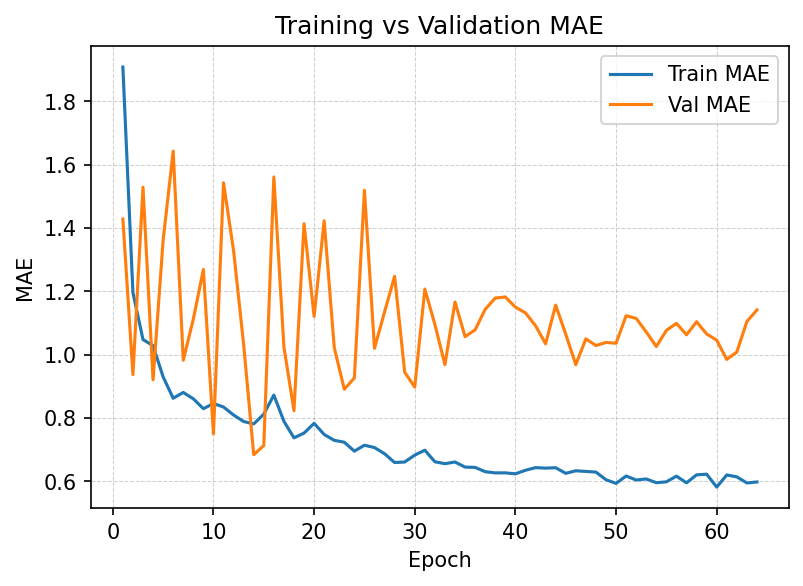
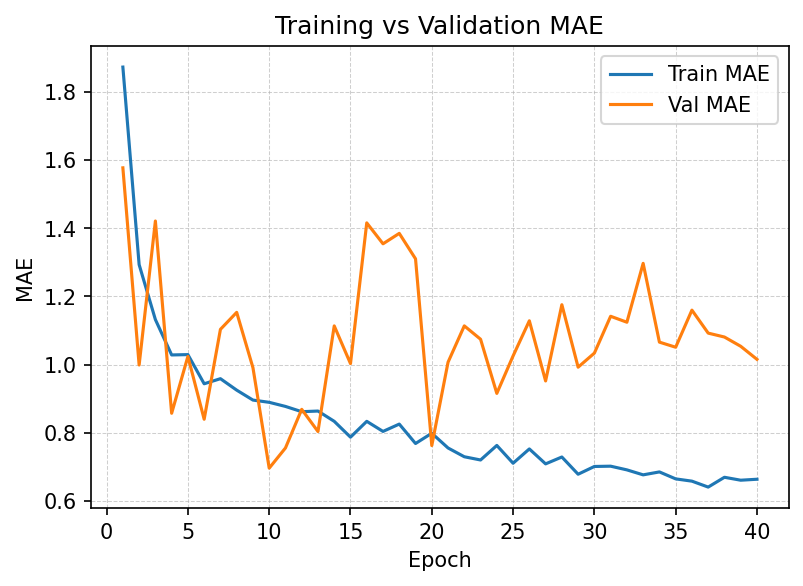
preprceoss now randomly crops

diff --git a/models/model_v4.2/view_augmented.py b/models/model_v4.2/view_augmented.py
@@ -1,0 +1,163 @@
+"""Web-based viewer for inspecting augmented RGB/Depth pairs.
+
+Run:
+    python view_augmented.py --rgb-dir <path> --depth-dir <path> --csv <path>
+Requires gradio>=4.
+"""
+
+import argparse
+import os
+import random
+from dataclasses import dataclass
+from typing import Dict, List, Optional, Tuple
+
+import gradio as gr
+import numpy as np
+import pandas as pd
+from PIL import Image, ImageOps
+
+try:
+    from preprocess import PreprocessConfig
+except Exception:  # pragma: no cover
+    PreprocessConfig = None
+
+
+@dataclass
+class ViewerPaths:
+    rgb_dir: str
+    depth_dir: str
+    csv_path: str
+
+
+class AugmentedDataset:
+    """Helper class that keeps metadata/indexing fast for the viewer."""
+
+    def __init__(self, paths: ViewerPaths) -> None:
+        self.paths = paths
+        self.df = self._load_dataframe(paths.csv_path)
+        self.ids: List[int] = self.df['id'].tolist()
+        self.rows: Dict[int, Dict] = {
+            int(row['id']): row for row in self.df.to_dict(orient='records')
+        }
+        if not self.ids:
+            raise ValueError('No entries found in augmented CSV')
+
+    @staticmethod
+    def _load_dataframe(csv_path: str) -> pd.DataFrame:
+        if not os.path.exists(csv_path):
+            raise FileNotFoundError(f'CSV not found: {csv_path}')
+        df = pd.read_csv(csv_path)
+        if 'image_id' in df.columns and 'id' not in df.columns:
+            df = df.rename(columns={'image_id': 'id'})
+        if 'id' not in df.columns:
+            raise ValueError('CSV must contain an "id" column')
+        df['id'] = df['id'].astype(int)
+        df = df.sort_values('id').reset_index(drop=True)
+        return df
+
+    def ensure_index(self, index: int) -> int:
+        return max(0, min(index, len(self.ids) - 1))
+
+    def index_of(self, image_id: int) -> Optional[int]:
+        try:
+            return self.ids.index(image_id)
+        except ValueError:
+            return None
+
+    def metadata(self, image_id: int) -> Dict:
+        row = self.rows.get(image_id, {})
+        return {k: v for k, v in row.items() if k not in {'id'}}
+
+    def rgb_path(self, image_id: int) -> str:
+        return os.path.join(self.paths.rgb_dir, f'RGB_{image_id}.png')
+
+    def depth_path(self, image_id: int) -> str:
+        return os.path.join(self.paths.depth_dir, f'Depth_{image_id}.png')
+
+    def load_rgb(self, image_id: int) -> Image.Image:
+        path = self.rgb_path(image_id)
+        if not os.path.exists(path):
+            raise FileNotFoundError(f'RGB image missing: {path}')
+        return Image.open(path).convert('RGB')
+
+    def load_depth(self, image_id: int) -> Image.Image:
+        path = self.depth_path(image_id)
+        if not os.path.exists(path):
+            raise FileNotFoundError(f'Depth image missing: {path}')
+        depth = Image.open(path).convert('L')
+        depth = ImageOps.autocontrast(depth)
+        return depth.convert('RGB')
+
+
+def parse_args() -> argparse.Namespace:
+    default_rgb = PreprocessConfig().out_rgb_dir if PreprocessConfig else '../../datasets/Training/Augmented/RGBImages'
+    default_depth = PreprocessConfig().out_depth_dir if PreprocessConfig else '../../datasets/Training/Augmented/DepthImages'
+    default_csv = PreprocessConfig().out_csv if PreprocessConfig else '../../datasets/Training/Augmented/Train_aug.csv'
+
+    parser = argparse.ArgumentParser(description='Launch a Gradio viewer for augmented RGB/Depth pairs.')
+    parser.add_argument('--rgb-dir', default=default_rgb, help='Directory containing RGB_*.png files.')
+    parser.add_argument('--depth-dir', default=default_depth, help='Directory containing Depth_*.png files.')
+    parser.add_argument('--csv', default=default_csv, help='CSV with augmented metadata (must include id column).')
+    parser.add_argument('--host', default='127.0.0.1', help='Listener host for the Gradio server.')
+    parser.add_argument('--port', type=int, default=7860, help='Listener port for the Gradio server.')
+    parser.add_argument('--share', action='store_true', help='Enable Gradio sharing link.')
+    return parser.parse_args()
+
+
+def build_interface(dataset: AugmentedDataset) -> gr.Blocks:
+    total = len(dataset.ids)
+
+    def fetch_by_index(index: float) -> Tuple[int, Image.Image, Image.Image, Dict]:
+        index = dataset.ensure_index(int(index))
+        image_id = dataset.ids[index]
+        rgb = dataset.load_rgb(image_id)
+        depth = dataset.load_depth(image_id)
+        meta = dataset.metadata(image_id)
+        meta.update({'id': image_id})
+        return image_id, rgb, depth, meta
+
+    def go_to_id(image_id_str: str) -> int:
+        try:
+            image_id = int(image_id_str)
+        except Exception:
+            return 0
+        idx = dataset.index_of(image_id)
+        return idx if idx is not None else 0
+
+    def random_index(_: Optional[str] = None) -> int:
+        return random.randint(0, total - 1)
+
+    with gr.Blocks(title='Augmented RGB/Depth Viewer') as demo:
+        gr.Markdown('## Augmented RGB/Depth Viewer\nUse the controls below to scrub through generated samples and verify preprocessing quality.')
+        with gr.Row():
+            slider = gr.Slider(minimum=0, maximum=total - 1, step=1, value=0, label='Sample index')
+            id_display = gr.Number(label='Augmented id', interactive=False)
+        with gr.Row():
+            id_input = gr.Textbox(label='Jump to augmented id (e.g., 1523)', placeholder='Enter exact augmented id...')
+            go_btn = gr.Button('Go')
+            rand_btn = gr.Button('Random sample')
+        with gr.Row():
+            rgb_view = gr.Image(label='RGB view', type='pil')
+            depth_view = gr.Image(label='Depth view', type='pil')
+        meta_view = gr.JSON(label='Metadata / mixup info')
+
+        slider.change(fn=fetch_by_index, inputs=slider, outputs=[id_display, rgb_view, depth_view, meta_view])
+        go_btn.click(fn=go_to_id, inputs=id_input, outputs=slider)
+        rand_btn.click(fn=random_index, outputs=slider)
+
+        # Trigger initial render
+        demo.load(fn=fetch_by_index, inputs=slider, outputs=[id_display, rgb_view, depth_view, meta_view])
+
+    return demo
+
+
+def main() -> None:
+    args = parse_args()
+    paths = ViewerPaths(rgb_dir=args.rgb_dir, depth_dir=args.depth_dir, csv_path=args.csv)
+    dataset = AugmentedDataset(paths)
+    interface = build_interface(dataset)
+    interface.launch(server_name=args.host, server_port=args.port, share=args.share)
+
+
+if __name__ == '__main__':
+    main()

diff --git a/models/model_v4.2/preprocess.py b/models/model_v4.2/preprocess.py
@@ -1,7 +1,6 @@
 import os
 import random
 import concurrent.futures as cf
-import math
 from dataclasses import dataclass
 from typing import Dict, List, Optional, Tuple
 
@@ -26,10 +25,10 @@ class PreprocessConfig:
     out_csv: str = '../../datasets/Training/Augmented/Train_aug.csv'
 
     image_size: int = 96
-    crop_size: int = 1000
+    crop_size: int = 1000  # minimum side length for random crops
 
     # how many augmented variants per original (not counting the original)
-    num_aug_per_image: int = 30
+    num_aug_per_image: int = 50
     max_center_shift: int = 100  # max pixel shift for random pre-crop translations
     seed: int = 42
 
@@ -71,15 +70,34 @@ def shifted_center_crop(img: Image.Image, crop_size: int, shift: Tuple[int, int]
 
 
 def random_center_shift(rng: np.random.RandomState, max_shift: int) -> Tuple[int, int]:
+    """Sample a deterministic shift whose magnitude is in [0, max_shift]."""
+
     if max_shift <= 0:
         return 0, 0
-    pixels = int(rng.randint(0, max_shift + 1))
-    if pixels == 0:
-        return 0, 0
-    angle = rng.uniform(0.0, 2.0 * math.pi)
-    dx = int(round(pixels * math.cos(angle)))
-    dy = int(round(pixels * math.sin(angle)))
-    return dx, dy
+
+    def _sample_axis() -> int:
+        magnitude = int(rng.randint(0, max_shift + 1))
+        if magnitude == 0:
+            return 0
+        sign = -1 if rng.rand() < 0.5 else 1
+        return sign * magnitude
+
+    return _sample_axis(), _sample_axis()
+
+
+def random_crop_size(
+    rgb: Image.Image,
+    depth: Image.Image,
+    cfg: PreprocessConfig,
+    rng: np.random.RandomState,
+) -> int:
+    """Return a crop side sampled between the full frame and cfg.crop_size."""
+
+    max_crop = min(min(rgb.size), min(depth.size))
+    min_crop = min(int(cfg.crop_size), max_crop)
+    if min_crop >= max_crop:
+        return max_crop
+    return int(rng.randint(min_crop, max_crop + 1))
 
 
 def apply_aug(rgb: Image.Image, depth: Image.Image, rng: np.random.RandomState) -> Tuple[Image.Image, Image.Image]:
@@ -113,14 +131,19 @@ def preprocess_one(
     rgb: Image.Image,
     depth: Image.Image,
     cfg: PreprocessConfig,
+    rng: np.random.RandomState,
     shift: Optional[Tuple[int, int]] = None,
 ) -> Tuple[Image.Image, Image.Image]:
-    if shift is not None and shift != (0, 0):
-        rgb = shifted_center_crop(rgb, cfg.crop_size, shift)
-        depth = shifted_center_crop(depth, cfg.crop_size, shift)
+    crop_side = random_crop_size(rgb, depth, cfg, rng)
+    if shift is None:
+        shift = random_center_shift(rng, int(cfg.max_center_shift))
+
+    if shift != (0, 0):
+        rgb = shifted_center_crop(rgb, crop_side, shift)
+        depth = shifted_center_crop(depth, crop_side, shift)
     else:
-        rgb = center_crop(rgb, cfg.crop_size)
-        depth = center_crop(depth, cfg.crop_size)
+        rgb = center_crop(rgb, crop_side)
+        depth = center_crop(depth, crop_side)
 
     rgb = rgb.resize((cfg.image_size, cfg.image_size), resample=Image.BILINEAR)
     depth = depth.resize((cfg.image_size, cfg.image_size), resample=Image.BILINEAR)
@@ -160,7 +183,9 @@ def _process_one_row(args) -> List[Dict]:
     out_rows: List[Dict] = []
 
     # original (no aug)
-    rgb, depth = preprocess_one(rgb0, depth0, cfg)
+    base_rng = np.random.RandomState(int(cfg.seed) + orig_id)
+    shift0 = random_center_shift(base_rng, int(cfg.max_center_shift))
+    rgb, depth = preprocess_one(rgb0, depth0, cfg, base_rng, shift=shift0)
     rgb.save(os.path.join(cfg.out_rgb_dir, f'RGB_{base_out_id}.png'))
     depth.save(os.path.join(cfg.out_depth_dir, f'Depth_{base_out_id}.png'))
     r0 = dict(row_dict)
@@ -174,7 +199,7 @@ def _process_one_row(args) -> List[Dict]:
         rng = np.random.RandomState(int(cfg.seed) + orig_id * 100 + k)
         rgb_aug, depth_aug = apply_aug(rgb0, depth0, rng)
         shift = random_center_shift(rng, int(cfg.max_center_shift))
-        rgb_aug, depth_aug = preprocess_one(rgb_aug, depth_aug, cfg, shift=shift)
+        rgb_aug, depth_aug = preprocess_one(rgb_aug, depth_aug, cfg, rng, shift=shift)
 
         rgb_aug.save(os.path.join(cfg.out_rgb_dir, f'RGB_{out_id}.png'))
         depth_aug.save(os.path.join(cfg.out_depth_dir, f'Depth_{out_id}.png'))

diff --git a/models/model_v4.2/train.py b/models/model_v4.2/train.py
@@ -25,7 +25,7 @@ class TrainConfig:
     rgb_dir: str = '../../datasets/Training/Augmented/RGBImages'
     depth_dir: str = '../../datasets/Training/Augmented/DepthImages'
 
-    batch_size: int = 64  
+    batch_size: int = 128 
     num_epochs: int = 200
     lr: float = 1e-3    
     weight_decay: float = 1e-4
@@ -33,12 +33,12 @@ class TrainConfig:
     scheduler_patience: int = 10
     scheduler_min_lr: float = 1e-6
 
-    val_ratio: float = 0.4
+    val_ratio: float = 0.3
     seed: int = 42
-    patience: int = 50
+    patience: int =30
     # Matches 1 + num_aug_per_image from preprocess.py
-    outputs_per_original: int = 31
-    num_folds: int = 3
+    outputs_per_original: int = 21
+    num_folds: int = 1
 
     preload_to_gpu: bool = False
     preload_device: str = 'cuda'

diff --git a/models/model_v4.3/train.py b/models/model_v4.3/train.py
@@ -25,7 +25,7 @@ class TrainConfig:
     rgb_dir: str = '../../datasets/Training/Augmented/RGBImages'
     depth_dir: str = '../../datasets/Training/Augmented/DepthImages'
 
-    batch_size: int = 64  
+    batch_size: int = 128  
     num_epochs: int = 200
     lr: float = 1e-3    
     weight_decay: float = 1e-4
@@ -33,12 +33,12 @@ class TrainConfig:
     scheduler_patience: int = 10
     scheduler_min_lr: float = 1e-6
 
-    val_ratio: float = 0.4
+    val_ratio: float = 0.3
     seed: int = 42
     patience: int = 50
     # Matches 1 + num_aug_per_image from preprocess.py
-    outputs_per_original: int = 31
-    num_folds: int = 3
+    outputs_per_original: int = 20
+    num_folds: int = 1
 
     preload_to_gpu: bool = False
     preload_device: str = 'cuda'

diff --git a/models/model_v4.3/preprocess.py b/models/model_v4.3/preprocess.py
@@ -29,8 +29,8 @@ class PreprocessConfig:
     crop_size: int = 1000
 
     # how many augmented variants per original (not counting the original)
-    num_aug_per_image: int = 30
-    max_center_shift: int = 100  # max pixel shift for random pre-crop translations
+    num_aug_per_image: int = 20
+    max_center_shift: int = 0  # max pixel shift for random pre-crop translations
     mixup_prob: float = 0.4
     mixup_alpha: float = 0.4
     seed: int = 42
